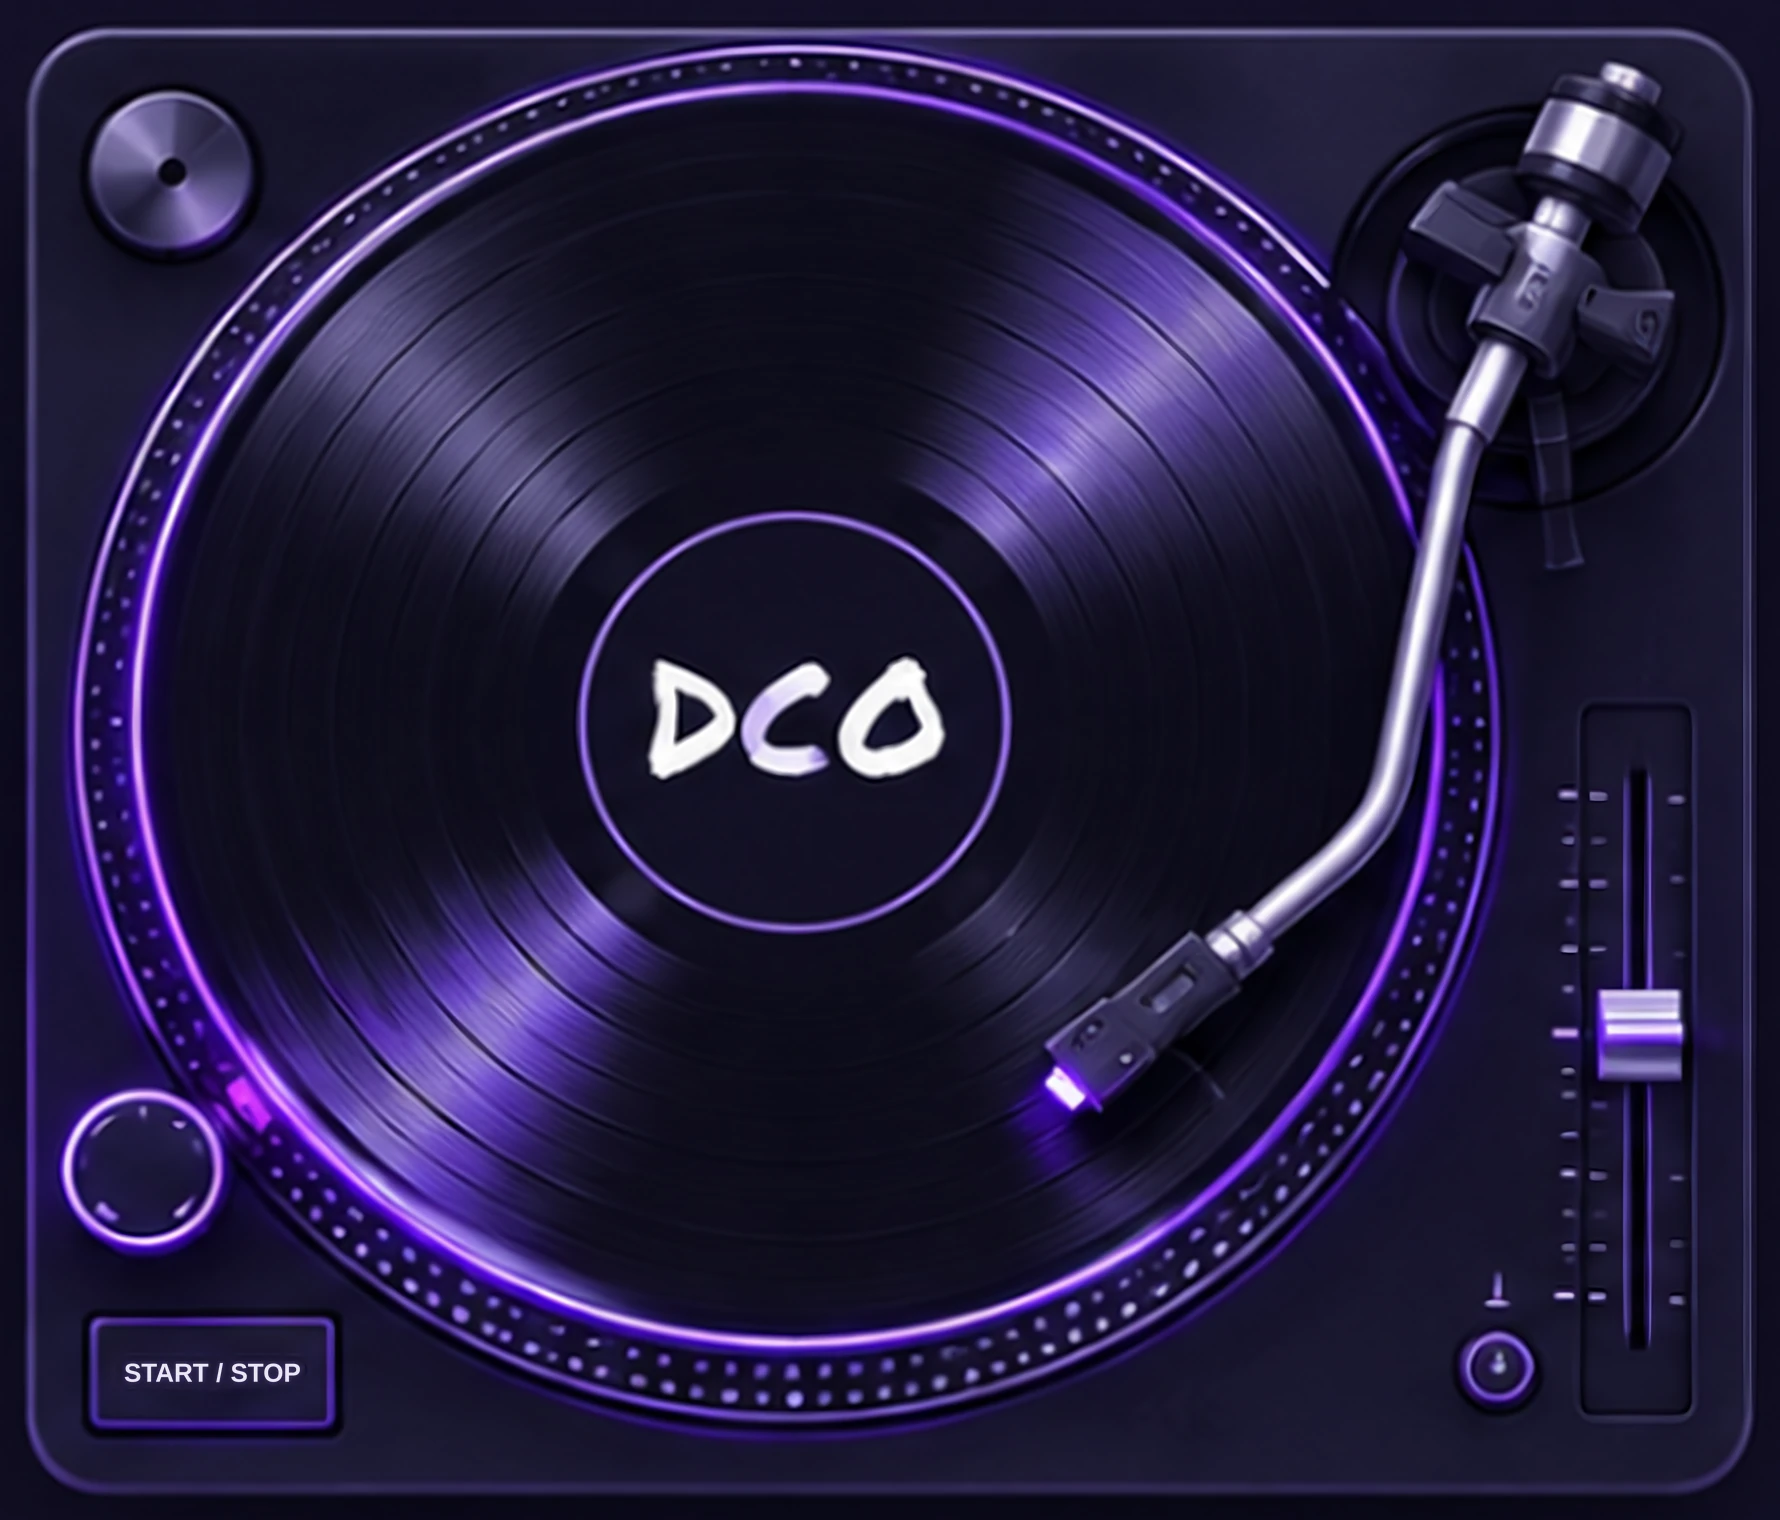
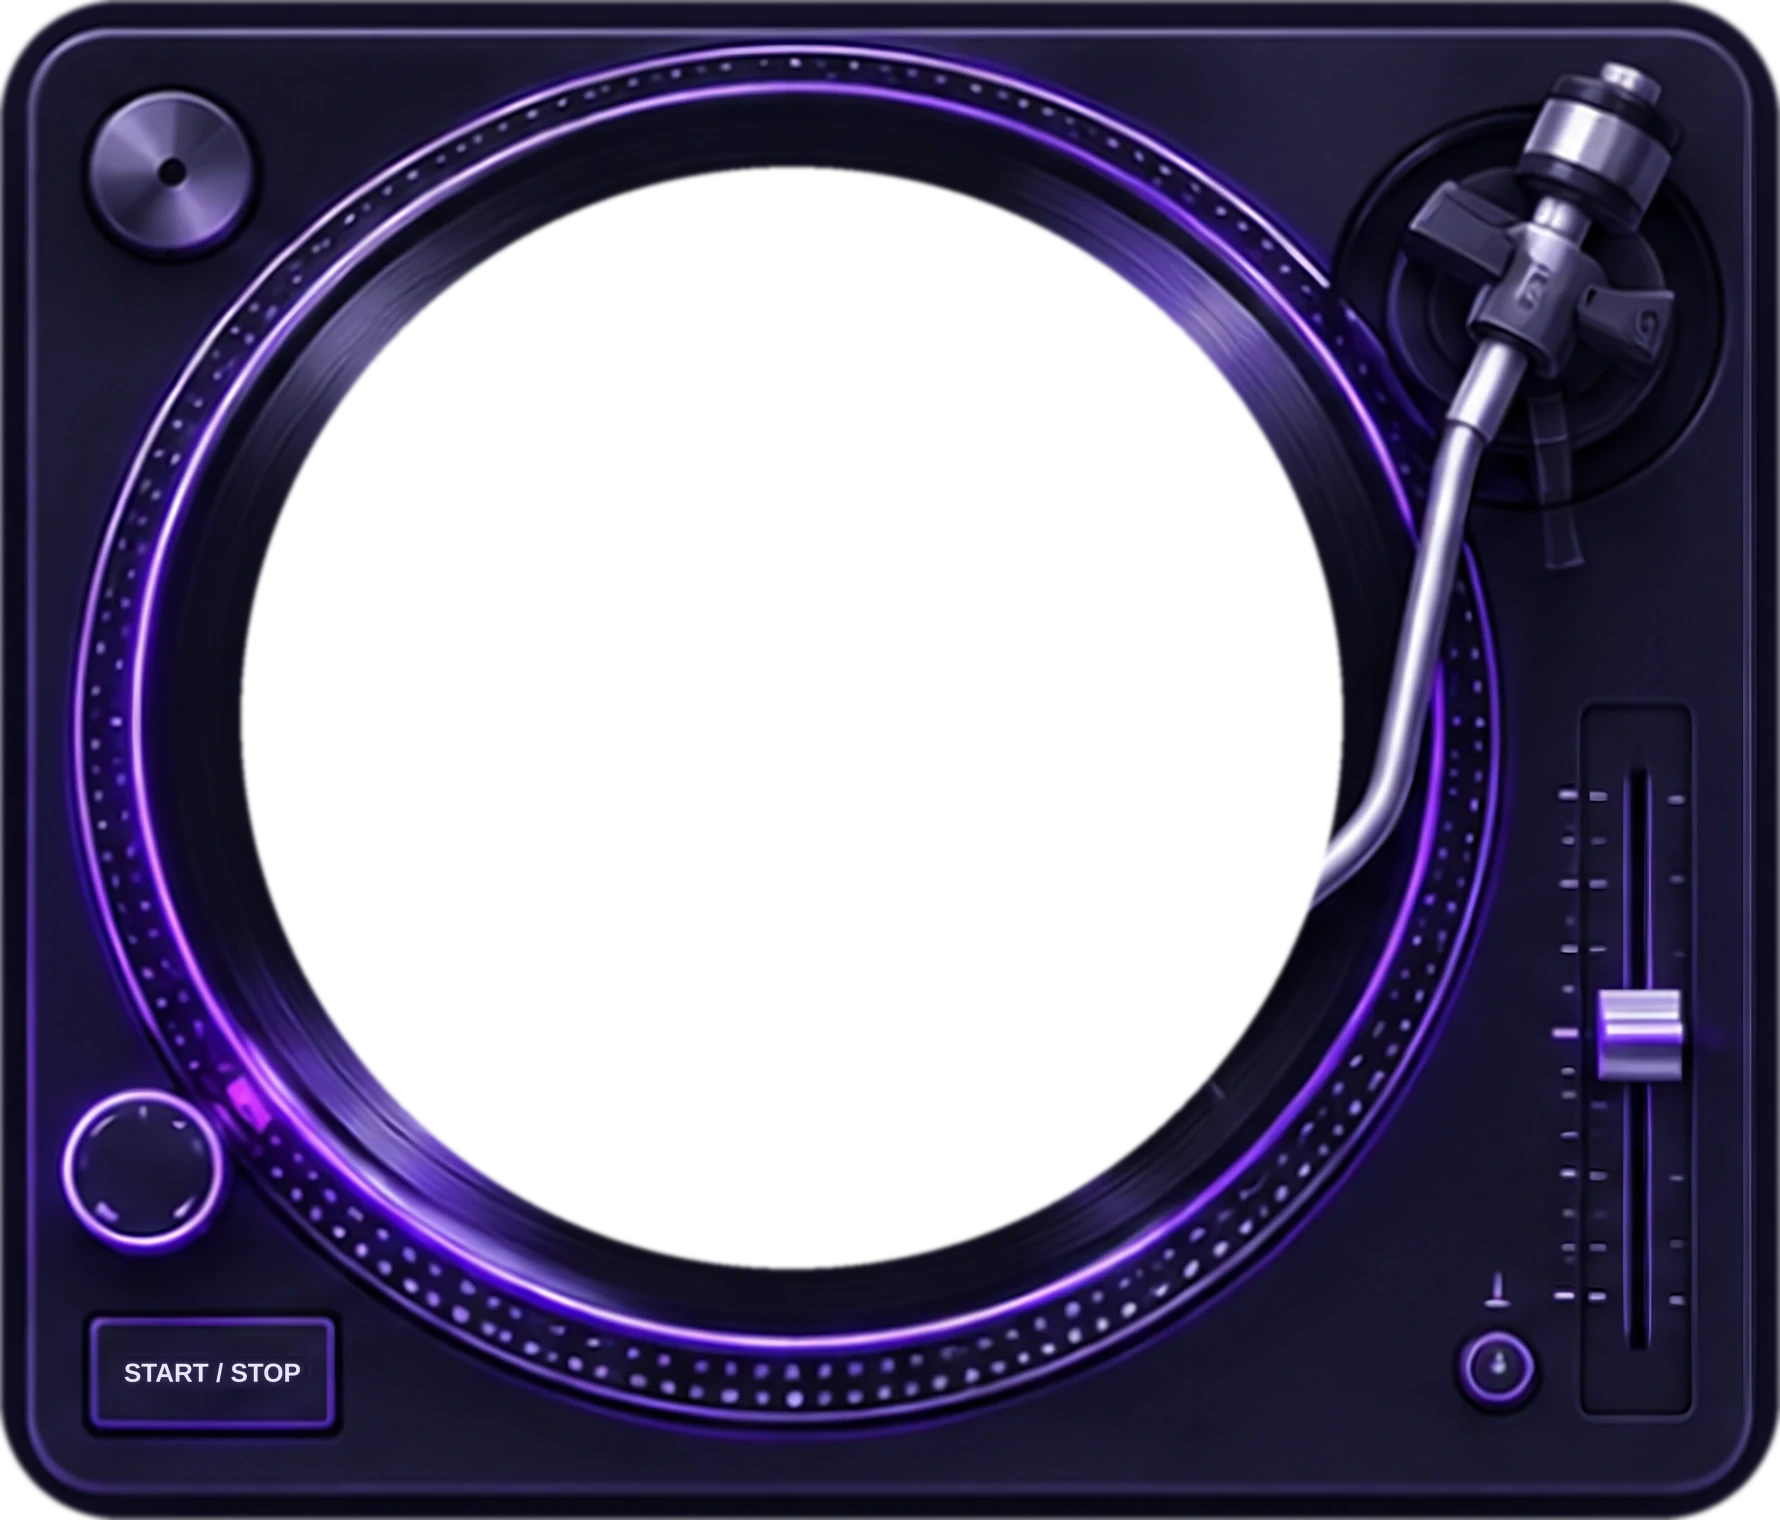
Make turntable corners transparent so the sidebar background shows through.
Soft-mask webp edges and ease the purple ring so opaque square plates no longer break the vinyl stripes.

diff --git a/src/components/DraftTurntable.css b/src/components/DraftTurntable.css
@@ -1,7 +1,6 @@
 /*
  * Draft 1 turntable with the spinning DsoLogo.
- * Deck images are 1780×1520 (4× AI-upscaled draft). Positions are percentages
- * of the deck, so the layers stay aligned at any size.
+ * Deck/arm webps use transparent rounded corners so the app background shows through.
  * Record centre: 44.49% / 47.24%; logo disc radius 35%.
  */
 
@@ -14,15 +13,13 @@
   margin-inline: auto;
   user-select: none;
   background: transparent;
-  isolation: isolate;
-  /* Match auth-field purple border + glow (username / password) */
   border-radius: 1.15rem;
-  border: 1px solid #8b5cf6;
+  /* Auth-field style purple ring — soft, no opaque plate behind */
+  border: 1px solid rgba(139, 92, 246, 0.65);
   box-shadow:
-    0 0 0 1px rgba(139, 92, 246, 0.55),
-    0 0 18px rgba(124, 58, 237, 0.38),
-    0 0 36px rgba(124, 58, 237, 0.18);
-  /* Keep glow visible — clip images themselves, not this box */
+    0 0 0 1px rgba(139, 92, 246, 0.4),
+    0 0 18px rgba(124, 58, 237, 0.35),
+    0 0 36px rgba(124, 58, 237, 0.16);
   overflow: visible;
 }
 
@@ -34,25 +31,8 @@
   height: 100%;
   display: block;
   pointer-events: none;
-  /* Soft-clip opaque webp corners to the rounded frame */
   border-radius: inherit;
-}
-
-/*
- * Hide the draft's baked-in square black label / record art under the logo.
- * Transparent circle at the platter centre; deck shows everywhere else.
- */
-.dco-draft__deck {
-  -webkit-mask-image: radial-gradient(
-    circle 36.2% at 44.494% 47.237%,
-    transparent 99.5%,
-    #000 100%
-  );
-  mask-image: radial-gradient(
-    circle 36.2% at 44.494% 47.237%,
-    transparent 99.5%,
-    #000 100%
-  );
+  background: transparent;
 }
 
 /* DsoLogo's disc (r=84 of a 228 viewBox) is scaled to the draft's record radius */
@@ -87,7 +67,19 @@
 
 .dco-draft__arm {
   z-index: 3;
-  filter: drop-shadow(0.7cqw 1.4cqw 0.9cqw rgba(0, 0, 0, 0.55));
+  filter: drop-shadow(0.7cqw 1.4cqw 0.9cqw rgba(0, 0, 0, 0.45));
+}
+
+/* Sidebar: blend into striped vinyl bg — no opaque square plate */
+.dco-draft--sidebar {
+  max-width: none;
+  border-color: rgba(167, 139, 250, 0.55);
+  box-shadow:
+    0 0 0 1px rgba(139, 92, 246, 0.35),
+    0 0 16px rgba(124, 58, 237, 0.32),
+    0 0 28px rgba(124, 58, 237, 0.14);
+  /* drop-shadow follows transparent webp alpha — no square halo */
+  filter: drop-shadow(0 0 10px rgba(124, 58, 237, 0.28));
 }
 
 @keyframes dco-draft-spin {

diff --git a/src/index.css b/src/index.css
@@ -5597,11 +5597,13 @@ body.modal-open .order-sticky-backdrop {
   background: transparent;
   box-shadow: none;
   overflow: visible;
+  isolation: auto;
 }
 
 .sidebar-v2 .sidebar-brand .dco-draft--sidebar {
   width: 100%;
   max-width: none;
+  background: transparent;
 }
 
 .sidebar-v2 .sidebar-brand .brand-mark {
